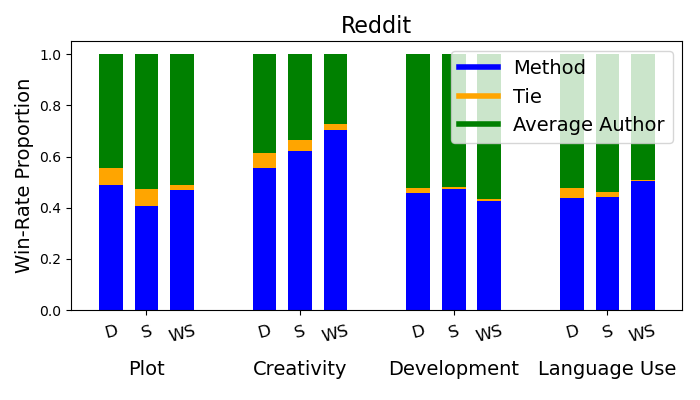
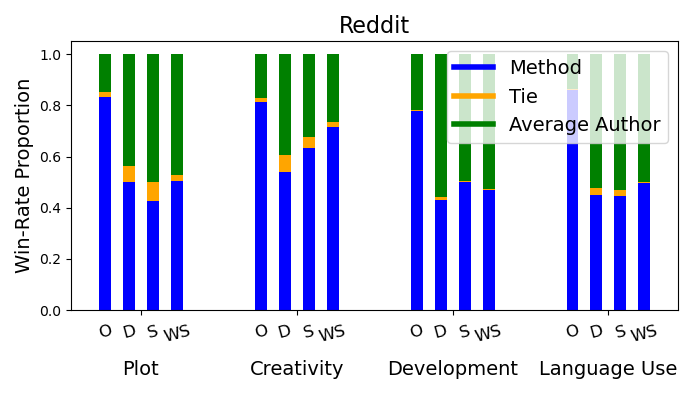
update catwise results

diff --git a/evaluation/consolidate_results.py b/evaluation/consolidate_results.py
@@ -104,9 +104,9 @@ def get_catwise_winners(source_data, faith=False):
 
 def create_graph(method_source_wise_results, output_dir):
     # Specify methods to compare
-    methods_to_compare = ["delta", "schema_persona", "delta_schema_persona"]
+    methods_to_compare = ["oracle", "delta", "schema_persona", "delta_schema_persona"]
     # define method alias
-    method_alias = {"delta_schema_persona": "WS", "schema_persona": "S", "delta": "D"}
+    method_alias = {"oracle": "O", "delta_schema_persona": "WS", "schema_persona": "S", "delta": "D"}
     # source alias
     source_alias = {
         "Reddit.json": "Reddit",
@@ -139,7 +139,7 @@ def create_graph(method_source_wise_results, output_dir):
         ]
 
         # Initialize bar data
-        bar_width = 0.1  # Reduce bar width to make bars narrower
+        bar_width = 0.05  # Reduce bar width to make bars narrower
         gap_width = 0.05  # Gap between methods
         x = np.arange(len(categories)) * 0.65  # Position of categories
 
